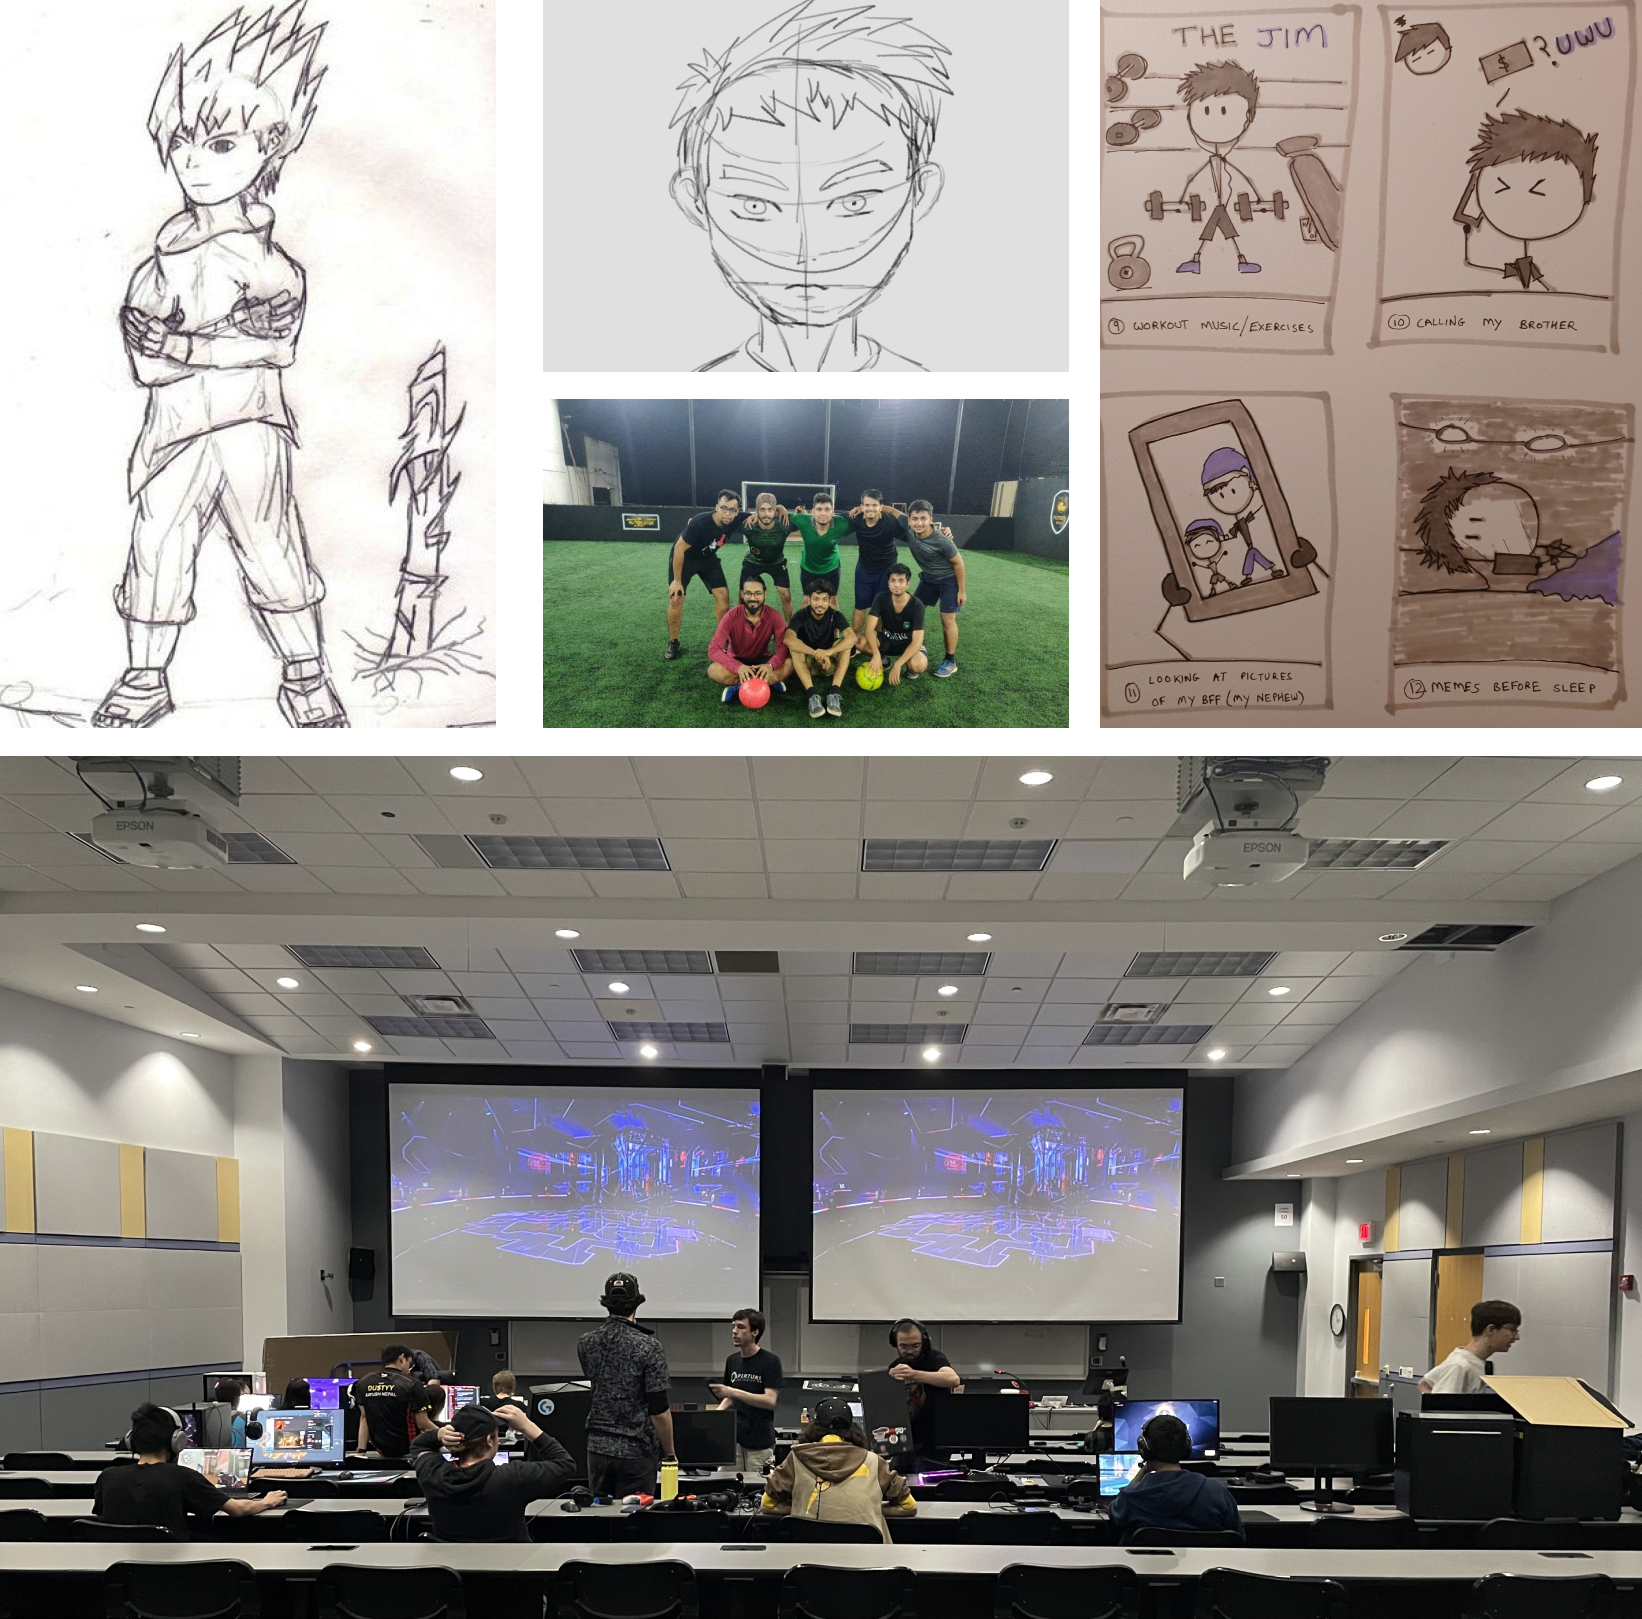
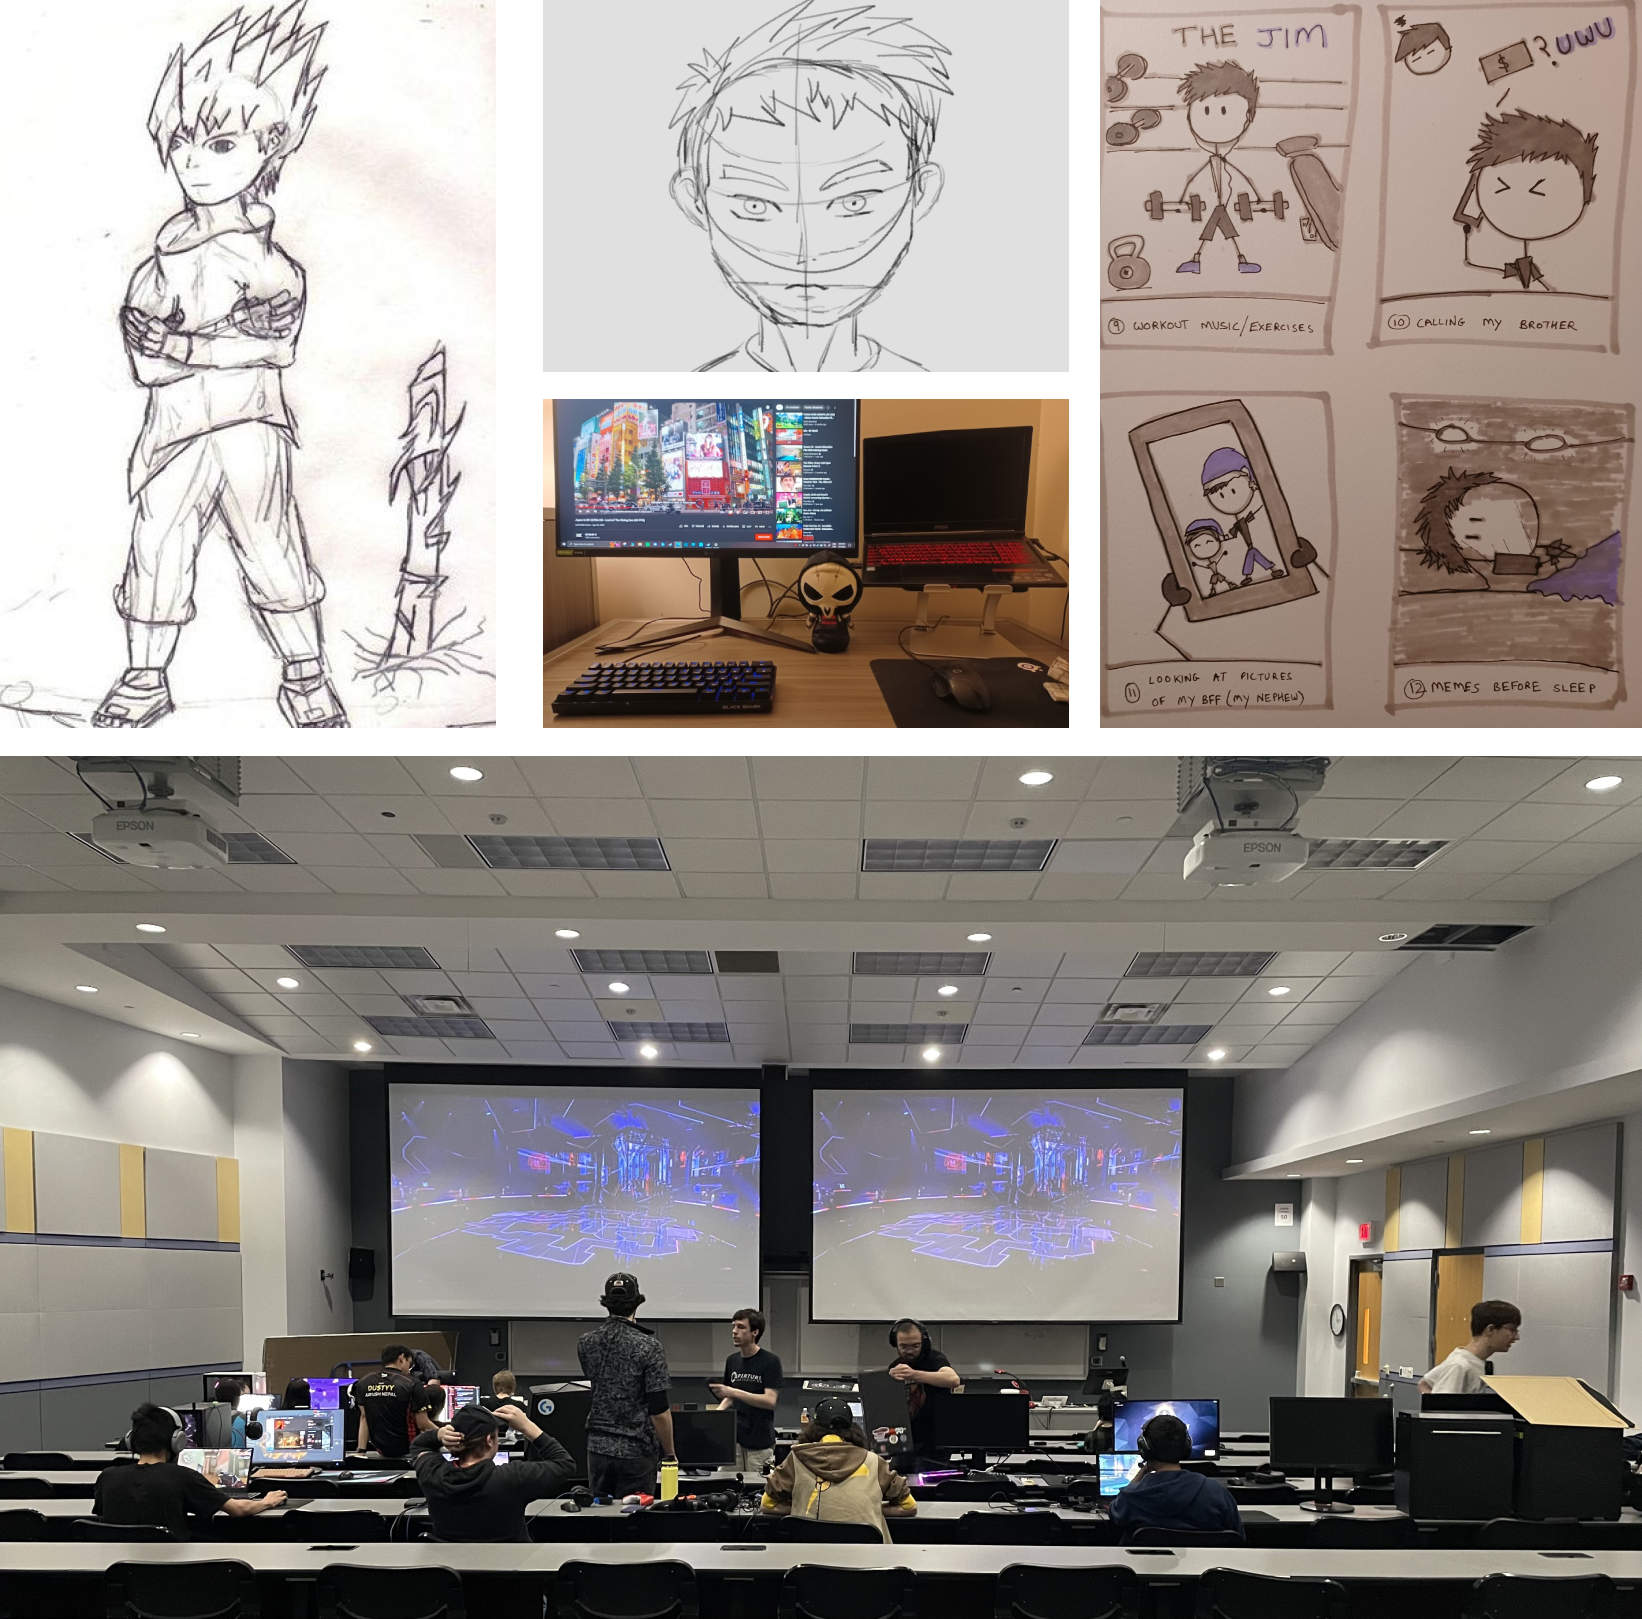
about me update

Changed region(s): [[0.3106, 0.2471, 0.6523, 0.4632]]

diff --git a/about/index.html b/about/index.html
@@ -43,7 +43,7 @@
         </div> -->
         <div class="row">
         <div class="aboutimg">
-                <img src= "../files/about/aboutmain.png" width="100%" alt="PC Setup with a Reaper Plushie">
+                <img src= "../files/about/aboutmain.png" width="70%" alt="PC Setup with a Reaper Plushie">
         </div>
         <div class="abouttext">
             <p>
@@ -58,7 +58,7 @@
         </div>  
         </div>  
         <div class="aboutmore">
-            <p>Apart from designing I love to doodle, and play video games. I’ve played for several Overwatch and Valorant organizations in the past, and currently play for my university’s esports team. I also like to stream on Twitch and create videos for YouTube now and then!</p>
+            <p>Apart from designing I love to doodle, and play video games. I’ve played for several Overwatch and Valorant organizations in the past, and currently am a coach for my university's Overwatch team. I also like to stream on Twitch and create videos for YouTube now and then!</p>
         </div>
         <div class="collage">
             <img src= "../files/about/aboutcollage.png" width="100%" alt="Collage of Naman's hobbies">

diff --git a/main.css b/main.css
@@ -112,7 +112,7 @@ nav a {
 }
 .aboutimg{
 
-    float: left;
+    text-align: center;
     /* background-color: teal; */
     margin-top: 10%;
 
